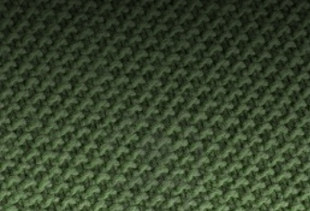
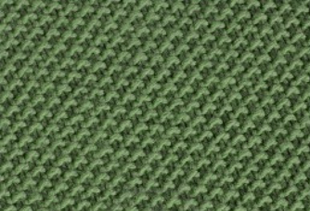
Fixed ActiveFrame.qml background colour and shadow when sum of each opacity is less than 1

diff --git a/assets/ActiveFrame.qml b/assets/ActiveFrame.qml
@@ -3,6 +3,7 @@ import bb.cascades 1.0
     
 Container {
     layout: DockLayout {}
+    background: Color.Black
     
 //	Q10
 //    maxWidth: 310
@@ -26,6 +27,9 @@ Container {
     ImageView {
         objectName: "backgroundBase"
         imageSource: "asset:///images/frame.png"
+    }
+    ImageView {
+        imageSource: "asset:///images/frame-shadow.png"
     }
     
     Container { // Header
